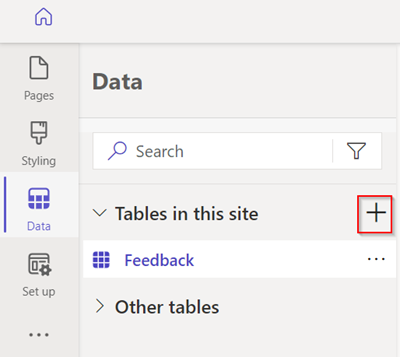
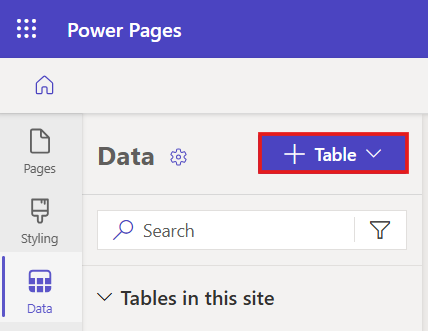
initial updates to add list tutorial

diff --git a/power-pages-docs/getting-started/tutorial-add-list-to-page.md b/power-pages-docs/getting-started/tutorial-add-list-to-page.md
@@ -43,15 +43,15 @@ Use the steps below to create a table.
 
 1. Select the **Data** icon on the left navigation.
 
-    - Select the **New table** button.
-    
+    - Select the **+ Table** button and choose **New table**.
+
     :::image type="content" source="media/tutorial/new-table.png" alt-text="Create a new table button.":::
 
-1. Give the table a name and select **Create**.
+1. Give the table a name and select **Save**.
 
     :::image type="content" source="media/tutorial/create-new-table.png" alt-text="Create a new table window.":::
 
-1. Select **New column**. 
+1. Select **New column**.
 
     :::image type="content" source="media/tutorial/new-column.png" alt-text="Add a new column button.":::
 
@@ -74,12 +74,12 @@ This video provides an overview of the steps to create a view.
 
 > [!VIDEO https://learn-video.azurefd.net/vod/player?id=db19432b-f0dc-4d86-8a71-8b11db44c030]
 
-Use the steps below to create a custom view for the table you created. 
+Use the steps below to create a custom view for the table you created.
 
 1. Select the table you created in the steps above.
 
     - Select **Views** and choose **New view**.
-    
+
     :::image type="content" source="media/tutorial/new-view.png" alt-text="The new view.":::
 
     - Enter a name for the view.
@@ -88,7 +88,7 @@ Use the steps below to create a custom view for the table you created.
 
 1. Add the application data and status reason columns to the view.
 
-1. Select **Save** and choose **Publish**.
+1. Select **Save and publish**.
 
 1. Select **Views** to show the available views for the table.
 
@@ -102,19 +102,39 @@ This video provides an overview of the steps to add a list to a page.
 
 Use the steps below to add a list to a web page so you can view information stored in Dataverse.
 
-1. Inside the design studio, choose the option to **Create a new page**.
+1. Inside the **Pages** workspace, select **+ Page**.
 
-1. Add a name for the page.
+1. Use Copilot to create the page or choose from various layouts:
 
-1. Choose the **Start from blank** layout.
+    # [Use Copilot](#tab/copilot)
 
-    - Select **Add**.
-    - Select **List**.
+    1. Use Copilot to describe a page you want to create using natural language.
+    1. To send Copilot your request, press <kbd>Enter</kbd> or select the paper airplane icon in the lower-right corner of the text box.
+
+        :::image type="content" source="media/first-page/add-page-copilot.png" alt-text="Screenshot showing the option to create a page using Copilot.":::
+
+    1. After Copilot creates your page, select **Keep it** if you like the result or **Delete page** if you don't.
+
+    1. Select **+ Add a Section** to add a section that will contain the list.
+
+    # [Select layout](#tab/other)
+
+    1. Select **Other ways to add a page** to choose a page from standard layouts, or choose a custom layout.
+
+    1. By default, the new page appears in the **Main navigation** section and a link appears on the default navigation of the site. If you unselect the **add page to main navigation** option, the page appears the **Other pages** section. The page is accessible from a URL, but a link isn't added to the default navigation.
+
+        :::image type="content" source="media/first-page/add-page.png" alt-text="Adding a page menu within the design studio.":::
+
+    For detailed information on how to create custom page templates, go to [Create and manage page templates](/power-apps/maker/portals/configure/page-templates) and [Store source content by using web templates](/power-apps/maker/portals/liquid/store-content-web-templates) in the Power Apps documentation.
+
+    ---
+
+1. Select **List**.
 
 1. Fill in the details.
 
     - Choose the table and view you'd like from the dropdown menus.
-    
+
         :::image type="content" source="media/first-page/add-list.png" alt-text="Add list options.":::
 
 1. Select **Preview**.
